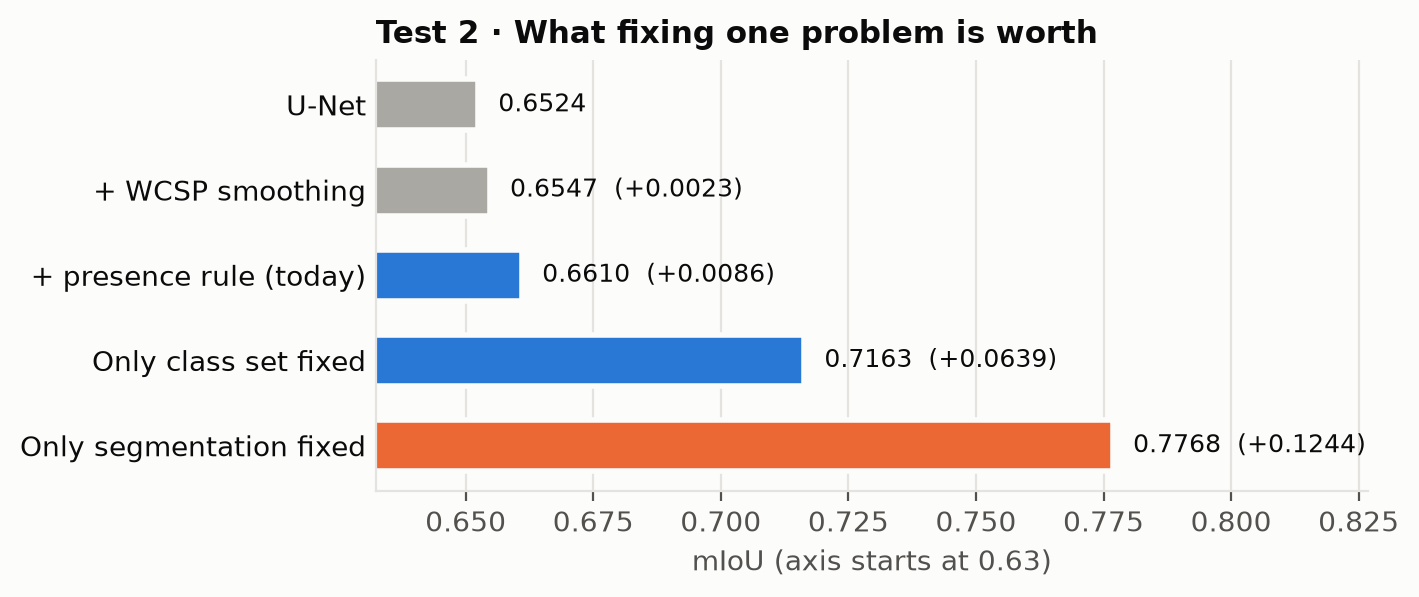
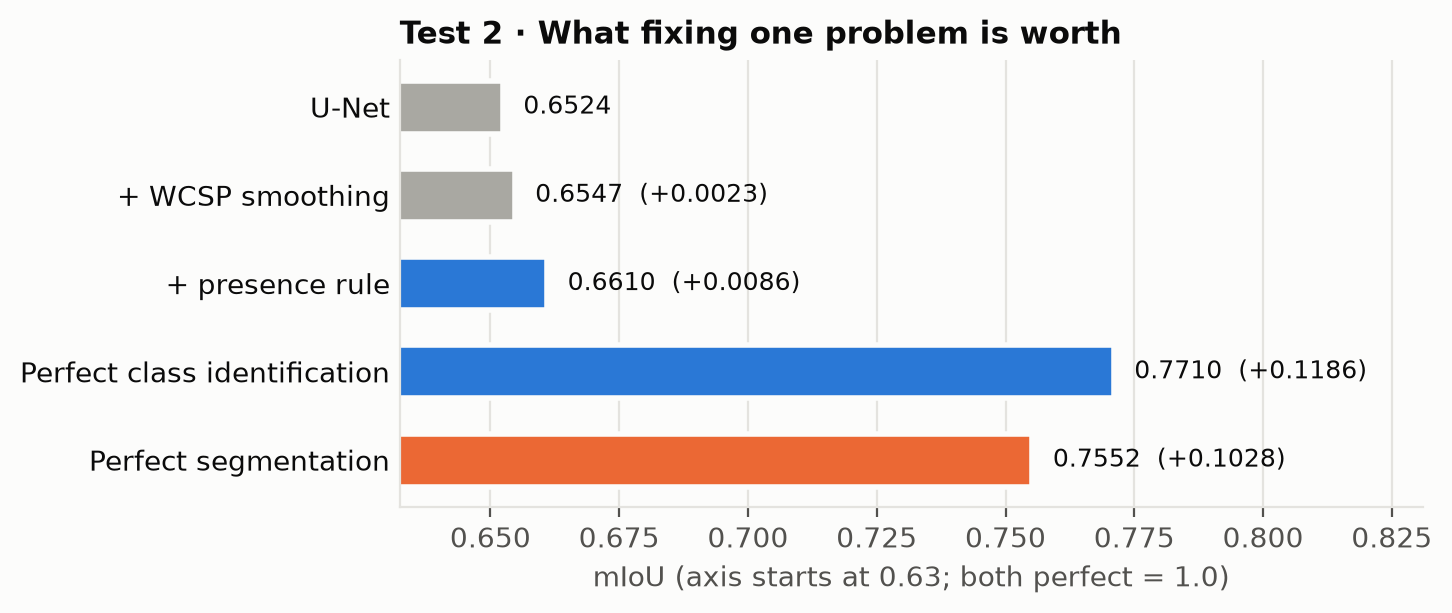
Deliverable 7: symmetric upper bounds without WCSP, clearer error split, Problems under recap
Claude-Session: https://claude.ai/code/session_01CTh5Qud5ucWXzk6pK8w2Lo

diff --git a/docs/deliverable7/index.html b/docs/deliverable7/index.html
@@ -41,7 +41,7 @@
 <header>
   <h1>Deliverable 7</h1>
   <p class="sub">November 23, 2026 · PanNuke (cell nuclei) and BCSS (tissue regions)</p>
-  <nav><a href="#recap">Recap</a><a href="#problem">Problem</a><a href="#prelim">Preliminary tests</a><a href="#pannuke-organs">PanNuke per organ</a><a href="#current">BCSS U-Net</a></nav>
+  <nav><a href="#recap">Recap</a><a href="#problem">Problems</a><a href="#prelim">Preliminary tests</a><a href="#pannuke-organs">PanNuke per organ</a><a href="#current">BCSS U-Net</a></nav>
 </header>
 
 <section id="recap">
@@ -77,7 +77,7 @@
 </section>
 
 <section id="problem">
-<h2>Problem</h2>
+<h2>Problems</h2>
 <div class="take"><b>The U-Net has limitations, and WCSP right now is only a smoother, so it can't fix them.</b> Smoothing cleans up noisy borders; the real errors are bigger.</div>
 <table>
   <tr><th>Problem</th><th>Dataset</th><th>What goes wrong</th><th>What could fix it</th></tr>
@@ -146,23 +146,24 @@
 <h3>BCSS · U-Net</h3>
 <p class="note">Full-resolution U-Net · 185 BCSS dev tiles · no training</p>
 <h4>Test 1 · Which problem causes the errors?</h4>
-<p><b>Method:</b> for each true region, check whether the U-Net predicts the right class for most of it.</p>
+<p><b>Method:</b> look at each true region (one connected piece of one class in the ground truth) and the U-Net's labels inside it.</p>
 <ul>
-  <li><b>Yes:</b> its wrong pixels are <b>segmentation</b> errors (stray pieces, borders).</li>
-  <li><b>No:</b> its wrong pixels are <b>class identification</b> errors (the whole region is misread).</li>
+  <li><b>Example A:</b> a true stroma region of 100 pixels; the U-Net calls 90 stroma and 10 tumor. It got the region right, so the 10 wrong pixels are <b>segmentation</b> errors (the shape is off).</li>
+  <li><b>Example B:</b> a true stroma region of 100 pixels; the U-Net calls 70 "other" and 30 stroma. It misread the region, so the 70 wrong pixels are <b>class identification</b> errors.</li>
 </ul>
+<p class="note">Rule: if the U-Net's most common label in a true region is correct, that region's wrong pixels are segmentation errors; otherwise they are class identification errors.</p>
 <img src="prelim_error_split.png" alt="Test 1: errors per class, segmentation vs class identification">
 <div class="take"><b>Answer:</b> about half each (48% segmentation, 52% class identification). "Other" and stroma fail mostly by class identification; inflammatory and necrosis mostly by segmentation.</div>
 
 <h4>Test 2 · What is fixing each problem worth?</h4>
-<p><b>Method:</b> make one problem perfect, keep the U-Net for everything else, and re-score.</p>
+<p><b>Method:</b> make one problem perfect, keep the U-Net for the other, and re-score. No WCSP.</p>
 <ul>
-  <li><b>Only class set fixed:</b> each tile is told which classes it contains; the U-Net still decides where they go.</li>
-  <li><b>Only segmentation fixed:</b> each true region is labeled as one piece, with the class the U-Net predicts on average over it.</li>
+  <li><b>Perfect class identification:</b> keep the U-Net's own regions, and give each one the class most of its true pixels have.</li>
+  <li><b>Perfect segmentation:</b> keep the true regions, and give each one the class the U-Net predicts for most of it.</li>
+  <li><b>Both perfect</b> = the ground truth (1.0).</li>
 </ul>
-<p class="note">Fixing both would give the ground truth (1.0), so each bar shows what <i>one</i> problem costs.</p>
 <img src="prelim_ladder.png" alt="Test 2: value of fixing each problem">
-<div class="take"><b>Answer:</b> segmentation is worth +0.1244 and the class set +0.0639. Our presence rule recovers only +0.0086 of the class-set gain, and smoothing +0.0023.</div>
+<div class="take"><b>Answer:</b> both problems are worth about the same: perfect class identification +0.1186, perfect segmentation +0.1028. Our presence rule recovers +0.0086 and smoothing +0.0023, a small fraction of either.</div>
 </section>
 
 <section id="pannuke-organs">

diff --git a/experiments/bcss_wcsp/rules/oracle_tests.py b/experiments/bcss_wcsp/rules/oracle_tests.py
@@ -1,19 +1,19 @@
-# Upper bounds for the two training losses, on Ryan's 185 frozen full-res dev inputs
-# (probabilities + ground truth), before any training:
+# Upper bounds for the two problems, on the 185 frozen full-res BCSS dev inputs
+# (U-Net probabilities + ground truth). No WCSP: each bound changes only the U-Net output.
 #
-#   region_oracle    average the U-Net probabilities inside each ground-truth connected
-#                    region, then argmax: what perfectly coherent regions would score
-#                    (best case for the region-consistency loss, arm B)
-#   presence_oracle  give the presence step the TRUE class set of the tile (classes >= 1% of
-#                    labeled pixels), then the usual WCSP: what perfect class presence would
-#                    score (best case for the presence loss, arm C)
+#   perfect_class_id   keep the U-Net's own regions (8-connected pieces of each predicted
+#                      class) and give each region the ground-truth class most of its labeled
+#                      pixels have: perfect class identification, U-Net segmentation
+#   perfect_seg        keep the true regions (8-connected pieces of each ground-truth class)
+#                      and give each region the class the U-Net predicts for most of it:
+#                      perfect segmentation, U-Net class identification
+#   both               the ground truth (mIoU 1.0 by construction)
 #
 #   python experiments/bcss_wcsp/rules/oracle_tests.py --workers 8
 
 import argparse
 import json
 import sys
-from dataclasses import replace
 from multiprocessing import Pool
 from pathlib import Path
 
@@ -22,41 +22,43 @@ from scipy import ndimage
 
 sys.path.insert(0, str(Path(__file__).resolve().parents[3]))
 
-from wcsp.config import load_config  # noqa: E402
 from wcsp.evaluate.pixel import pixel_confusion, pixel_report  # noqa: E402
 from wcsp.labels import IGNORE, NUM_LABELS  # noqa: E402
-from wcsp.model.problem import build_problem  # noqa: E402
-from wcsp.solve.factory import get_solver  # noqa: E402
 
 INPUTS = Path("data/fullres_multiscale_20261115/inputs")
-WCSP = {"name": "blocks", "block": 100, "max_rounds": 4, "inner": {"name": "icm"}}
+EIGHT = np.ones((3, 3))
+
+
+def relabel_regions(regions_from, votes_from, valid):
+    """Each 8-connected piece of each class in regions_from gets the majority of votes_from
+    over its labeled pixels (pieces with no labeled pixel keep their class)."""
+    out = regions_from.copy()
+    for c in range(NUM_LABELS):
+        comp, n = ndimage.label(regions_from == c, structure=EIGHT)
+        for r in range(1, n + 1):
+            region = comp == r
+            votes = votes_from[region & valid]
+            if votes.size:
+                out[region] = np.bincount(votes, minlength=NUM_LABELS)[:NUM_LABELS].argmax()
+    return out
 
 
 def region_oracle(probs, target):
-    out = probs.argmax(0)
-    for c in range(NUM_LABELS):
-        comp, n = ndimage.label(target == c, structure=np.ones((3, 3)))
-        for r in range(1, n + 1):
-            region = comp == r
-            out[region] = probs[:, region].mean(1).argmax()
-    return out
+    """Perfect segmentation: true regions, labeled with the U-Net's majority class."""
+    pred = probs.argmax(0)
+    valid = target != IGNORE
+    return relabel_regions(np.where(valid, target, pred), pred, valid)
 
 
 def solve_tile(path):
     z = np.load(path)
-    probs, target = z["probs"].astype(np.float64), z["target"]
-    raw = probs.argmax(0)
-    out = {"raw": pixel_confusion(raw, target), "region_oracle": pixel_confusion(region_oracle(probs, target), target)}
-    ok = target != IGNORE
-    share = np.bincount(target[ok], minlength=NUM_LABELS)[:NUM_LABELS] / max(ok.sum(), 1)
-    allowed = share >= 0.01
-    problem = build_problem(probs, load_config("experiments/bcss_wcsp/configs/bcss_rules.yaml").problem)
-    sub = replace(problem, unary=problem.unary + 1e3 * ~allowed)
-    labels = get_solver(dict(WCSP)).solve(sub, sub.unary.argmin(-1)).labels
-    out["presence_oracle"] = pixel_confusion(labels, target)
-    out["truth_classes"] = int(allowed.sum())
-    out["raw_classes"] = int((np.bincount(raw[ok], minlength=NUM_LABELS)[:NUM_LABELS] / max(ok.sum(), 1) >= 0.01).sum())
-    return out
+    target, pred = z["target"], z["probs"].astype(np.float32).argmax(0)
+    valid = target != IGNORE
+    return {
+        "raw": pixel_confusion(pred, target),
+        "perfect_class_id": pixel_confusion(relabel_regions(pred, target, valid), target),
+        "perfect_seg": pixel_confusion(region_oracle(z["probs"].astype(np.float32), target), target),
+    }
 
 
 def main():
@@ -66,14 +68,12 @@ def main():
     args = parser.parse_args()
     with Pool(args.workers) as pool:
         rows = pool.map(solve_tile, sorted(INPUTS.glob("*.npz")), chunksize=1)
-    report = {"tiles": len(rows),
-              "mean_classes_truth": float(np.mean([r["truth_classes"] for r in rows])),
-              "mean_classes_raw": float(np.mean([r["raw_classes"] for r in rows]))}
-    for arm in ("raw", "region_oracle", "presence_oracle"):
+    report = {"tiles": len(rows)}
+    for arm in ("raw", "perfect_class_id", "perfect_seg"):
         rep = pixel_report(sum(r[arm] for r in rows))
         report[arm] = {k: round(v, 4) for k, v in rep.items() if k == "mIoU" or k.startswith("IoU_")}
     Path(args.out).mkdir(parents=True, exist_ok=True)
-    (Path(args.out) / "report.json").write_text(json.dumps(report, indent=2))
+    (Path(args.out) / "report_v2.json").write_text(json.dumps(report, indent=2))
     print(json.dumps(report, indent=1))
 
 

diff --git a/deliverables/figures_20261123/prelim_figures.py b/deliverables/figures_20261123/prelim_figures.py
@@ -97,10 +97,10 @@ def fig_split(group, label, conf):
     fig.savefig(OUT / "prelim_error_split.png", dpi=200, bbox_inches="tight")
 
 
-def fig_ladder(raw, wcsp, presence, p_oracle, r_oracle):
-    rows = [("U-Net", raw, GRAY), ("+ WCSP smoothing", wcsp, GRAY), ("+ presence rule (today)", presence, BLUE),
-            ("Only class set fixed", p_oracle, BLUE), ("Only segmentation fixed", r_oracle, ORANGE)]
-    fig, ax = plt.subplots(figsize=(6.4, 2.8))
+def fig_ladder(raw, wcsp, presence, class_id, seg):
+    rows = [("U-Net", raw, GRAY), ("+ WCSP smoothing", wcsp, GRAY), ("+ presence rule", presence, BLUE),
+            ("Perfect class identification", class_id, BLUE), ("Perfect segmentation", seg, ORANGE)]
+    fig, ax = plt.subplots(figsize=(6.6, 2.9))
     ys = np.arange(len(rows))[::-1]
     for y, (name, v, c) in zip(ys, rows):
         ax.barh(y, v, color=c, height=0.6, edgecolor=SURFACE, linewidth=2)
@@ -108,8 +108,8 @@ def fig_ladder(raw, wcsp, presence, p_oracle, r_oracle):
     ax.set_yticks(ys, [r[0] for r in rows])
     ax.tick_params(axis="y", length=0)
     lo = raw - 0.02
-    ax.set_xlim(lo, max(r[1] for r in rows) + 0.05)
-    ax.set_xlabel("mIoU (axis starts at %.2f)" % lo)
+    ax.set_xlim(lo, max(r[1] for r in rows) + 0.06)
+    ax.set_xlabel("mIoU (axis starts at %.2f; both perfect = 1.0)" % lo)
     ax.grid(axis="x", color=GRID)
     ax.set_axisbelow(True)
     title(ax, "Test 2 · What fixing one problem is worth")

diff --git a/deliverables/deliverable_7.md b/deliverables/deliverable_7.md
@@ -31,7 +31,7 @@ mIoU, with the change vs. the base model in brackets. "—" = not run (yet).
 
 ---
 
-## Problem
+## Problems
 
 **The U-Net has limitations, and WCSP right now is only a smoother, so it can't fix them.** Smoothing cleans up noisy borders; the real errors are bigger.
 
@@ -55,9 +55,9 @@ mIoU, with the change vs. the base model in brackets. "—" = not run (yet).
 
 ### Test 1 · Which problem causes the errors?
 
-**Method:** for each true region, check whether the U-Net predicts the right class for most of it.
-- **Yes:** its wrong pixels are **segmentation** errors (stray pieces, borders).
-- **No:** its wrong pixels are **class identification** errors (the whole region is misread).
+**Method:** look at each true region (one connected piece of one class in the ground truth) and the U-Net's labels inside it.
+- **Example A:** a true stroma region of 100 pixels; the U-Net calls 90 stroma and 10 tumor. It got the region right, so the 10 wrong pixels are **segmentation** errors.
+- **Example B:** a true stroma region of 100 pixels; the U-Net calls 70 "other" and 30 stroma. It misread the region, so the 70 wrong pixels are **class identification** errors.
 
 ![Test 1](figures_20261123/prelim_error_split.png)
 
@@ -65,15 +65,14 @@ mIoU, with the change vs. the base model in brackets. "—" = not run (yet).
 
 ### Test 2 · What is fixing each problem worth?
 
-**Method:** make one problem perfect, keep the U-Net for everything else, and re-score.
-- **Only class set fixed:** each tile is told which classes it contains; the U-Net still decides where they go.
-- **Only segmentation fixed:** each true region is labeled as one piece, with the class the U-Net predicts on average over it.
-
-Fixing both would give the ground truth (1.0), so each bar shows what *one* problem costs.
+**Method:** make one problem perfect, keep the U-Net for the other, and re-score. No WCSP.
+- **Perfect class identification:** keep the U-Net's own regions, and give each one the class most of its true pixels have.
+- **Perfect segmentation:** keep the true regions, and give each one the class the U-Net predicts for most of it.
+- **Both perfect** = the ground truth (1.0).
 
 ![Test 2](figures_20261123/prelim_ladder.png)
 
-**Answer:** segmentation is worth +0.1244 and the class set +0.0639. Our presence rule recovers only +0.0086 of the class-set gain, and smoothing +0.0023.
+**Answer:** both problems are worth about the same: perfect class identification +0.1186, perfect segmentation +0.1028. Our presence rule recovers +0.0086 and smoothing +0.0023, a small fraction of either.
 
 ---
 
